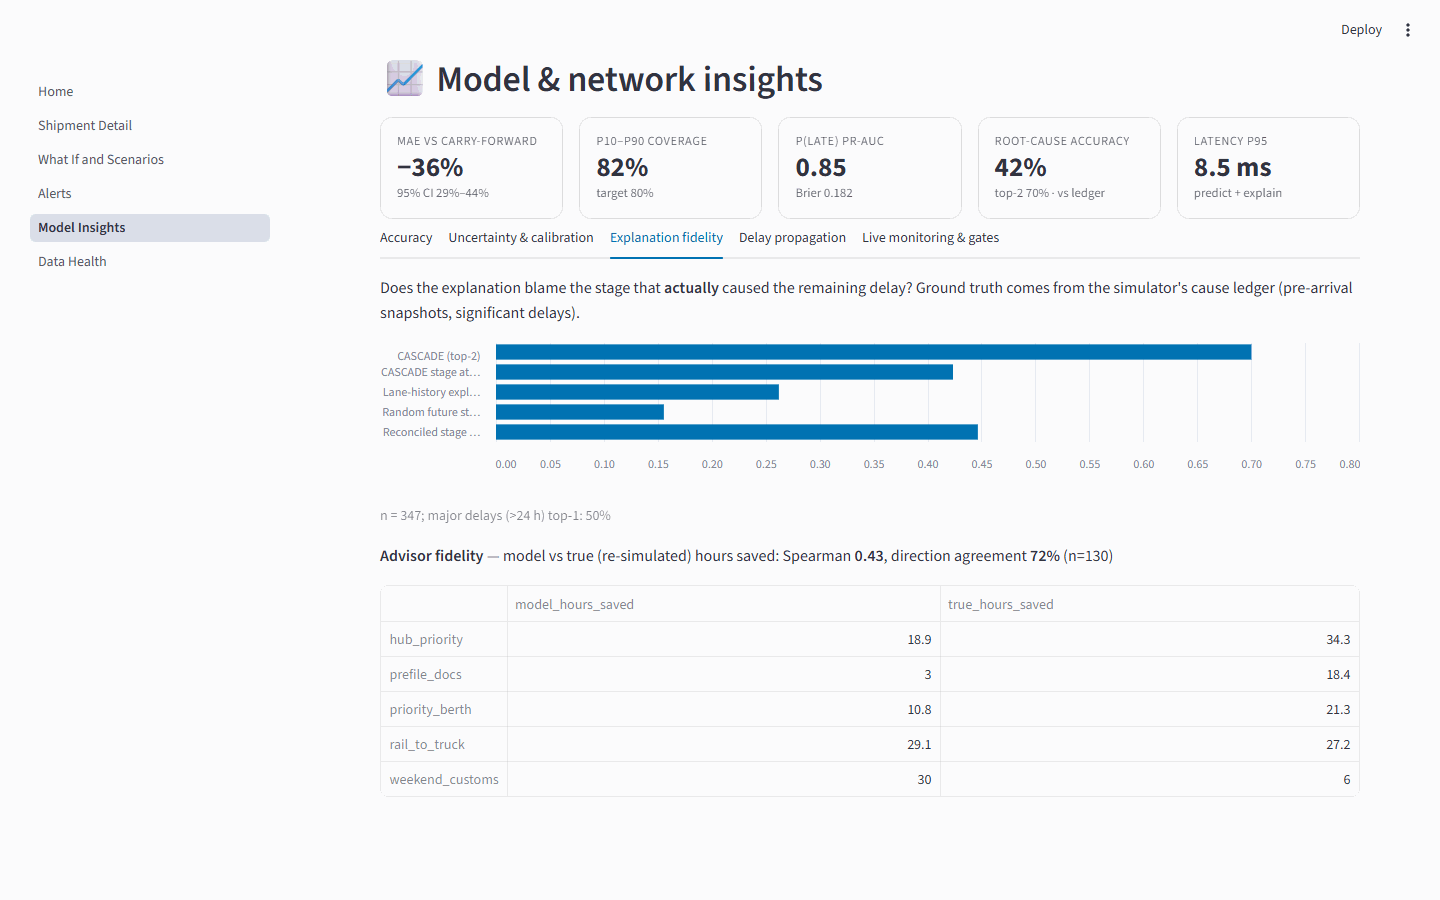
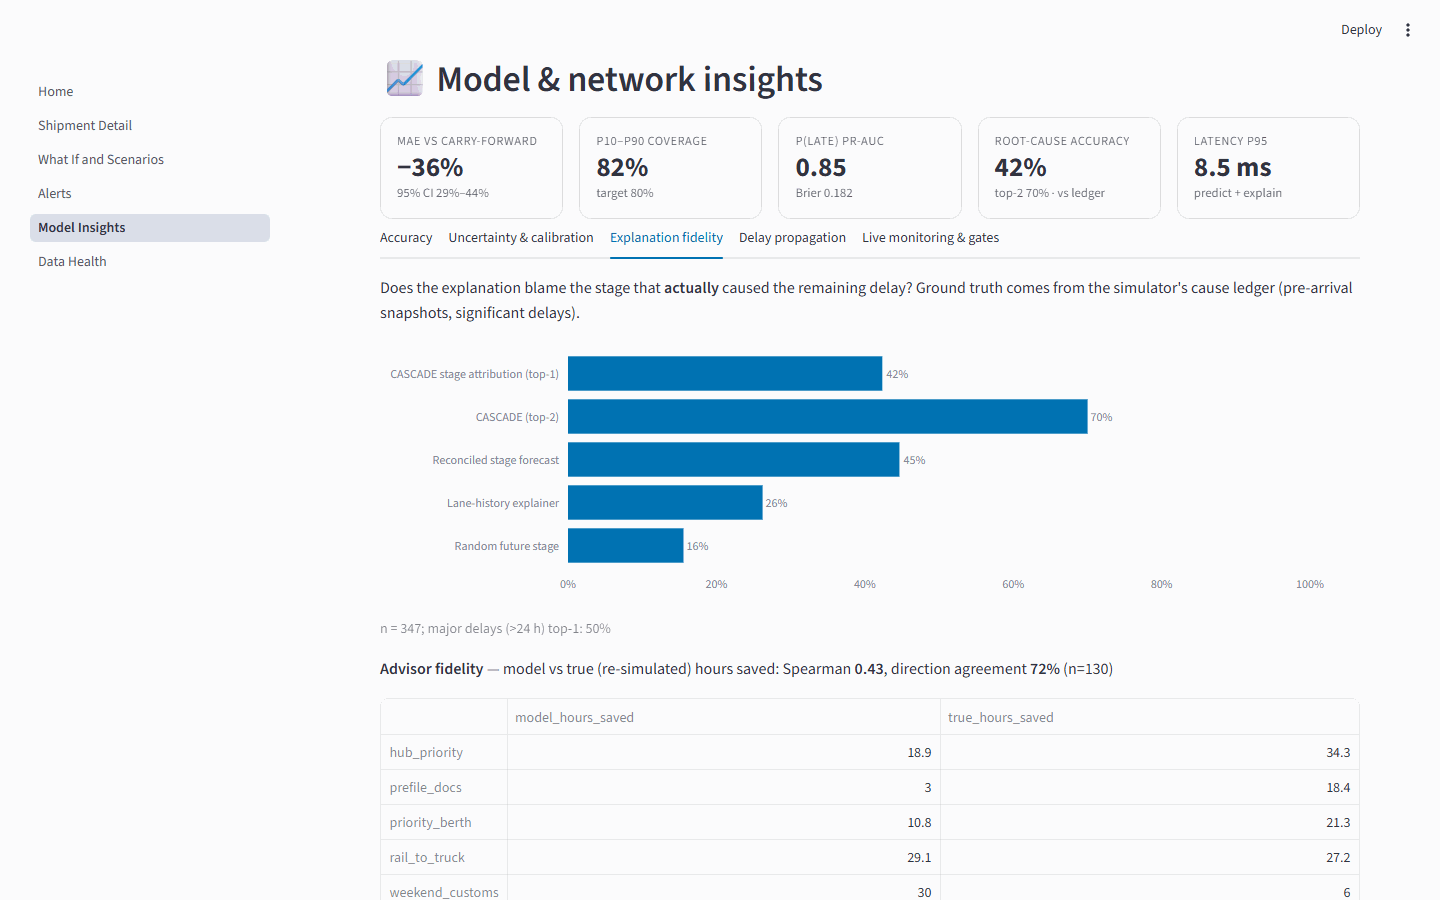
Fix CI failures: include cascade.data package, fix .gitignore /data/ pattern, add smoke boot test, and apply UI polish

diff --git a/src/cascade/data/validation.py b/src/cascade/data/validation.py
@@ -1,0 +1,79 @@
+"""Schema + invariant validation for simulator outputs.
+
+A light, dependency-free stand-in for Pandera (whose native deps are policy-blocked on some
+Windows machines). Every check raises ``DataValidationError`` with an actionable message.
+"""
+
+from __future__ import annotations
+
+import numpy as np
+import pandas as pd
+
+from cascade.domain.network import CARRIER_CODES, LANE_IDS
+from cascade.domain.stages import EventType
+
+
+class DataValidationError(ValueError):
+    pass
+
+
+SHIPMENT_COLUMNS = {
+    "shipment_id": "object",
+    "voyage_id": "object",
+    "lane_id": "object",
+    "carrier": "object",
+    "commodity_risk": "int",
+    "docs_complete": "bool",
+    "inland_mode": "object",
+    "total_delay_h": "float",
+    "is_late": "bool",
+}
+
+
+def _require(cond: bool, msg: str) -> None:
+    if not cond:
+        raise DataValidationError(msg)
+
+
+def validate_shipments(df: pd.DataFrame) -> None:
+    missing = set(SHIPMENT_COLUMNS) - set(df.columns)
+    _require(not missing, f"shipments: missing columns {sorted(missing)}")
+    _require(df.shipment_id.is_unique, "shipments: shipment_id must be unique")
+    _require(df.lane_id.isin(LANE_IDS).all(), "shipments: unknown lane_id")
+    _require(df.carrier.isin(CARRIER_CODES).all(), "shipments: unknown carrier")
+    _require(df.commodity_risk.between(0, 2).all(), "shipments: commodity_risk must be in {0,1,2}")
+    _require(
+        df.inland_mode.isin(["truck", "rail"]).all(), "shipments: inland_mode must be truck|rail"
+    )
+    _require(df.total_delay_h.notna().all(), "shipments: total_delay_h has NaN")
+    for e in EventType:
+        col = f"planned_{e.value}"
+        _require(col in df.columns, f"shipments: missing {col}")
+
+
+def validate_events(events: pd.DataFrame, shipments: pd.DataFrame) -> None:
+    _require(events.shipment_id.isin(shipments.shipment_id).all(), "events: orphan shipment_id")
+    delivered = events[events.event == EventType.DELIVERED.value]
+    _require(delivered.reported.all(), "events: DELIVERED must always be reported (ground truth)")
+    for sid, g in events.sort_values(["shipment_id", "seq"]).groupby("shipment_id"):
+        _require(
+            bool(np.all(np.diff(g.actual_h.values) >= -1e-9)),
+            f"events: non-monotone actuals for {sid}",
+        )
+        rep = g.reported_h.dropna().values
+        _require(bool(np.all(np.diff(rep) > 0)), f"events: non-monotone reported times for {sid}")
+
+
+def validate_ledger(ledger: pd.DataFrame, shipments: pd.DataFrame, tol_h: float = 1 / 60) -> None:
+    sums = ledger.groupby("shipment_id").hours.sum().reindex(shipments.shipment_id)
+    err = sums.values - shipments.total_delay_h.values
+    _require(
+        bool(np.all(np.abs(err) <= tol_h)),
+        f"ledger: cause ledger does not sum to total delay (max err {np.abs(err).max():.4f}h)",
+    )
+
+
+def validate_all(shipments: pd.DataFrame, events: pd.DataFrame, ledger: pd.DataFrame) -> None:
+    validate_shipments(shipments)
+    validate_events(events, shipments)
+    validate_ledger(ledger, shipments)

diff --git a/app/pages/1_Shipment_Detail.py b/app/pages/1_Shipment_Detail.py
@@ -23,6 +23,7 @@ from ui import (
     tier_chip,
     timeline_chart,
     ts,
+    usd,
     waterfall_chart,
 )
 
@@ -134,9 +135,10 @@ with right:
                     marker_color=[OK["vermillion"] if v > 0 else OK["green"] for v in sf.values()],
                     text=[dur(v) for v in sf.values()],
                     textposition="outside",
+                    cliponaxis=False,
                 )
             )
-            fig.update_layout(height=220, margin=dict(l=10, r=30, t=5, b=5), xaxis_title="hours")
+            fig.update_layout(height=220, margin=dict(l=10, r=60, t=5, b=5), xaxis_title="hours")
             st.plotly_chart(fig, use_container_width=True)
 
 # ---- recommended actions ----------------------------------------------------------------------
@@ -146,12 +148,20 @@ recs = adv["recommendations"]
 if not recs:
     st.caption("No feasible interventions at this point of the journey.")
 for rec in recs:
-    good = rec["net_value_usd"] > 0 or rec["hours_saved"] > 6
+    # ✅ pays for itself · ⏱ saves real time but costs more than it avoids · ▫ marginal
+    if rec["net_value_usd"] > 0:
+        icon, verdict = "✅", ""
+    elif rec["hours_saved"] > 6:
+        icon, verdict = "⏱", " · saves time, but costs more than the delay it avoids"
+    else:
+        icon, verdict = "▫", ""
     st.markdown(
-        f"{'✅' if good else '▫'} **{rec['label']}** — saves **{dur(rec['hours_saved'])}**, "
-        f"USD {rec['usd_saved']:,.0f} avoided for USD {rec['action_cost_usd']:,.0f} "
-        f"(net USD {rec['net_value_usd']:,.0f}); P(late) after: {rec['p_late_after']:.0%}  \n"
-        f"<span style='opacity:.7'>{rec['description']} · feasible because {rec['feasible_reason']}</span>",
+        f"{icon} **{rec['label']}** — saves **{dur(rec['hours_saved']).lstrip('+')}**, "
+        f"{usd(rec['usd_saved'])} avoided for {usd(rec['action_cost_usd'])} "
+        f"(net {usd(rec['net_value_usd'], signed=True)}); "
+        f"P(late) after: {rec['p_late_after']:.0%}  \n"
+        f"<span style='opacity:.7'>{rec['description']} · feasible because "
+        f"{rec['feasible_reason']}{verdict}</span>",
         unsafe_allow_html=True,
     )
 st.caption(adv["disclaimer"])

diff --git a/src/cascade/data/splits.py b/src/cascade/data/splits.py
@@ -1,0 +1,58 @@
+"""Leakage-safe splits: out-of-time test + GroupKFold by voyage (shared vessels never straddle folds)."""
+
+from __future__ import annotations
+
+import json
+from dataclasses import asdict, dataclass
+from pathlib import Path
+
+import numpy as np
+import pandas as pd
+
+
+@dataclass
+class Splits:
+    train_ids: list[str]
+    test_ids: list[str]
+    fold_of: dict[str, int]  # training shipment -> CV fold
+    n_folds: int
+
+    def save(self, path: Path) -> None:
+        path.write_text(json.dumps(asdict(self)))
+
+    @classmethod
+    def load(cls, path: Path) -> Splits:
+        return cls(**json.loads(path.read_text()))
+
+
+def make_splits(
+    shipments: pd.DataFrame, test_frac: float = 0.2, n_folds: int = 5, seed: int = 0
+) -> Splits:
+    s = shipments.sort_values(["planned_DEPART_ORIGIN", "shipment_id"])
+    # cut on voyage boundaries so a vessel is entirely in train or test
+    voyages = s.drop_duplicates("voyage_id")[["voyage_id", "planned_DEPART_ORIGIN"]]
+    n_test_target = int(round(test_frac * len(s)))
+    counts = s.groupby("voyage_id").size()
+    test_voy: list[str] = []
+    n = 0
+    for v in voyages.voyage_id.iloc[::-1]:
+        if n >= n_test_target:
+            break
+        test_voy.append(v)
+        n += int(counts[v])
+    is_test = s.voyage_id.isin(test_voy)
+    train = s[~is_test]
+    rng = np.random.default_rng(seed)
+    train_voy = np.array(sorted(train.voyage_id.unique()), dtype=object)
+    rng.shuffle(train_voy)
+    # balanced greedy assignment of voyages to folds by shipment count
+    loads = [0] * n_folds
+    fold_of_voy = {}
+    for v in sorted(train_voy, key=lambda v: -int(counts[v])):
+        k = int(np.argmin(loads))
+        fold_of_voy[v] = k
+        loads[k] += int(counts[v])
+    fold_of = {
+        sid: fold_of_voy[v] for sid, v in zip(train.shipment_id, train.voyage_id, strict=True)
+    }
+    return Splits(train.shipment_id.tolist(), s[is_test].shipment_id.tolist(), fold_of, n_folds)

diff --git a/app/pages/4_Model_Insights.py b/app/pages/4_Model_Insights.py
@@ -163,8 +163,25 @@ with t3:
         "lane_prior_top1": "Lane-history explainer",
         "random_top1": "Random future stage",
     }
-    s = pd.Series({names[k]: at[k] for k in names})
-    st.bar_chart(s, horizontal=True, color=OK["blue"])
+    s = pd.Series({names[k]: at[k] for k in names})[::-1]  # plotly draws bottom-up
+    fig = go.Figure(
+        go.Bar(
+            x=s.values,
+            y=s.index,
+            orientation="h",
+            marker_color=OK["blue"],
+            text=[f"{v:.0%}" for v in s.values],
+            textposition="outside",
+            cliponaxis=False,
+        )
+    )
+    fig.update_layout(
+        height=260,
+        margin=dict(l=10, r=50, t=10, b=10),
+        xaxis=dict(tickformat=".0%", range=[0, 1]),
+        yaxis=dict(automargin=True),
+    )
+    st.plotly_chart(fig, use_container_width=True)
     st.caption(
         f"n = {ins['attribution']['n']}; major delays (>24 h) top-1: {at['shap_top1_major_delays']:.0%}"
     )
@@ -199,7 +216,8 @@ with t4:
                 colorscale=[[0, OK["green"]], [0.33, "#f7f7f7"], [1, OK["vermillion"]]],
                 zmin=0,
                 zmax=3,
-                text=piv.round(2).values,
+                # blank (not "NaN") where a lane has no shipments for that stage
+                text=piv.round(2).astype(object).where(piv.notna(), "").values,
                 texttemplate="%{text}",
                 colorbar=dict(title="Φ"),
             )

diff --git a/app/pages/2_What_If_and_Scenarios.py b/app/pages/2_What_If_and_Scenarios.py
@@ -11,7 +11,7 @@ import pandas as pd
 import streamlit as st
 
 import api_client as api
-from ui import TIER, dur, guard, kpi, setup
+from ui import TIER, dur, guard, kpi, setup, usd
 
 setup("What-if")
 st.markdown("## 🧪 What-If Lab & Disruption Radar")
@@ -61,7 +61,7 @@ with tab1:
     kpi(k[0], "Baseline delay P50", dur(b["delay_hours"]["p50"]), f"P(late) {b['p_late']:.0%}")
     kpi(k[1], "Scenario delay P50", dur(s["delay_hours"]["p50"]), f"P(late) {s['p_late']:.0%}")
     kpi(k[2], "Δ ETA", dur(res["delta_p50_h"]), "negative = earlier")
-    kpi(k[3], "Δ expected cost", f"${res['delta_cost_usd']:,.0f}", "illustrative tariffs")
+    kpi(k[3], "Δ expected cost", usd(res["delta_cost_usd"], signed=True), "illustrative tariffs")
     st.markdown(
         f"<div class='narr' style='margin-top:12px'>{s['narrative']}</div>", unsafe_allow_html=True
     )
@@ -109,7 +109,7 @@ with tab2:
             f"{imp['delta_late_count']:+d}",
             f"Σ ΔP(late) {imp['delta_expected_late']:+.1f}",
         )
-        kpi(k[3], "Δ expected cost", f"${imp['delta_cost_usd']:,.0f}")
+        kpi(k[3], "Δ expected cost", usd(imp["delta_cost_usd"], signed=True))
         if imp["affected"]:
             df = pd.DataFrame(imp["affected"])
             df["tier"] = (

diff --git a/app/ui.py b/app/ui.py
@@ -106,6 +106,15 @@ def dur(h: float) -> str:
     return ("+" if h > 0.5 else "−" if h < -0.5 else "") + s
 
 
+def usd(x: float, signed: bool = False) -> str:
+    """Money with a proper minus sign: −$194, +$952 (signed) and never "$-0"."""
+    v = round(x)
+    if v == 0:
+        return "$0"
+    s = f"${abs(v):,.0f}"
+    return "−" + s if v < 0 else ("+" if signed else "") + s
+
+
 def ts(iso: str, fmt: str = "%a %d %b %H:%M") -> str:
     return datetime.fromisoformat(iso.replace("Z", "+00:00")).strftime(fmt)
 
@@ -139,6 +148,7 @@ def waterfall_chart(items: list[dict], height: int = 360) -> go.Figure:
             x=x,
             text=text,
             textposition="outside",
+            cliponaxis=False,
             connector={"line": {"color": "rgba(128,128,128,.4)"}},
             increasing={"marker": {"color": OK["vermillion"]}},
             decreasing={"marker": {"color": OK["green"]}},
@@ -157,7 +167,7 @@ def waterfall_chart(items: list[dict], height: int = 360) -> go.Figure:
     )
     fig.update_layout(
         height=height,
-        margin=dict(l=10, r=40, t=10, b=10),
+        margin=dict(l=10, r=70, t=10, b=10),
         showlegend=False,
         xaxis_title="hours vs plan   (● realized · ◦ forecast)",
     )

diff --git a/src/cascade/serving/app.py b/src/cascade/serving/app.py
@@ -275,7 +275,7 @@ def advise(req: PredictRequest):
 
 # ---- demo world (fleet, shipments, alerts, scenarios, monitoring) ----------------------------------
 def _as_of(as_of: str | None) -> float:
-    if as_of is None:
+    if as_of is None or not as_of.strip():
         return world().now_h
     from datetime import datetime
 
@@ -404,9 +404,11 @@ def checkpoints(sid: str):
     w = world()
     if sid not in w.views:
         raise HTTPException(404, f"unknown shipment {sid}")
+    # Only milestones already reported by the world's "now": time-travel replays the past.
     return [
         {"label": c["label"], "as_of": _iso(c["as_of"]), "as_of_h": c["as_of"]}
         for c in w.checkpoints(sid)
+        if c["as_of"] <= w.now_h
     ]
 
 

diff --git a/tests/integration/test_api.py b/tests/integration/test_api.py
@@ -109,6 +109,15 @@ def test_world_endpoints(client):
     assert client.get("/v1/shipments/NOPE").status_code == 404
 
 
+def test_time_travel_never_goes_past_now(client):
+    now_h = client.get("/v1/world").json()["now_h"]
+    for s in client.get("/v1/shipments").json():
+        cps = client.get(f"/v1/shipments/{s['shipment_id']}/checkpoints").json()
+        assert all(c["as_of_h"] <= now_h for c in cps), s["shipment_id"]
+    sid = client.get("/v1/shipments").json()[0]["shipment_id"]
+    assert client.get(f"/v1/shipments/{sid}", params={"as_of": ""}).status_code == 200
+
+
 def test_tampered_bundle_is_refused(bundle_dir, tmp_path):
     import shutil
 

diff --git a/tests/smoke_boot.py b/tests/smoke_boot.py
@@ -1,0 +1,17 @@
+"""Smoke test: verify API boots and serves predictions on the published bundle."""
+
+from __future__ import annotations
+
+from fastapi.testclient import TestClient
+
+from cascade.serving.app import app
+
+with TestClient(app) as client:
+    ready = client.get("/ready").json()
+    print(ready)
+    assert ready.get("ready") is True, ready
+    sid = client.get("/v1/shipments").json()[0]["shipment_id"]
+    body = client.get(f"/v1/shipments/{sid}/payload").json()
+    r = client.post("/v1/predict", json=body)
+    assert r.status_code == 200, r.text
+    print(sid, r.json()["delay_hours"])

diff --git a/src/cascade/data/__init__.py b/src/cascade/data/__init__.py
@@ -1,0 +1,1 @@
+"""Data IO, validation and leakage-safe splits."""
